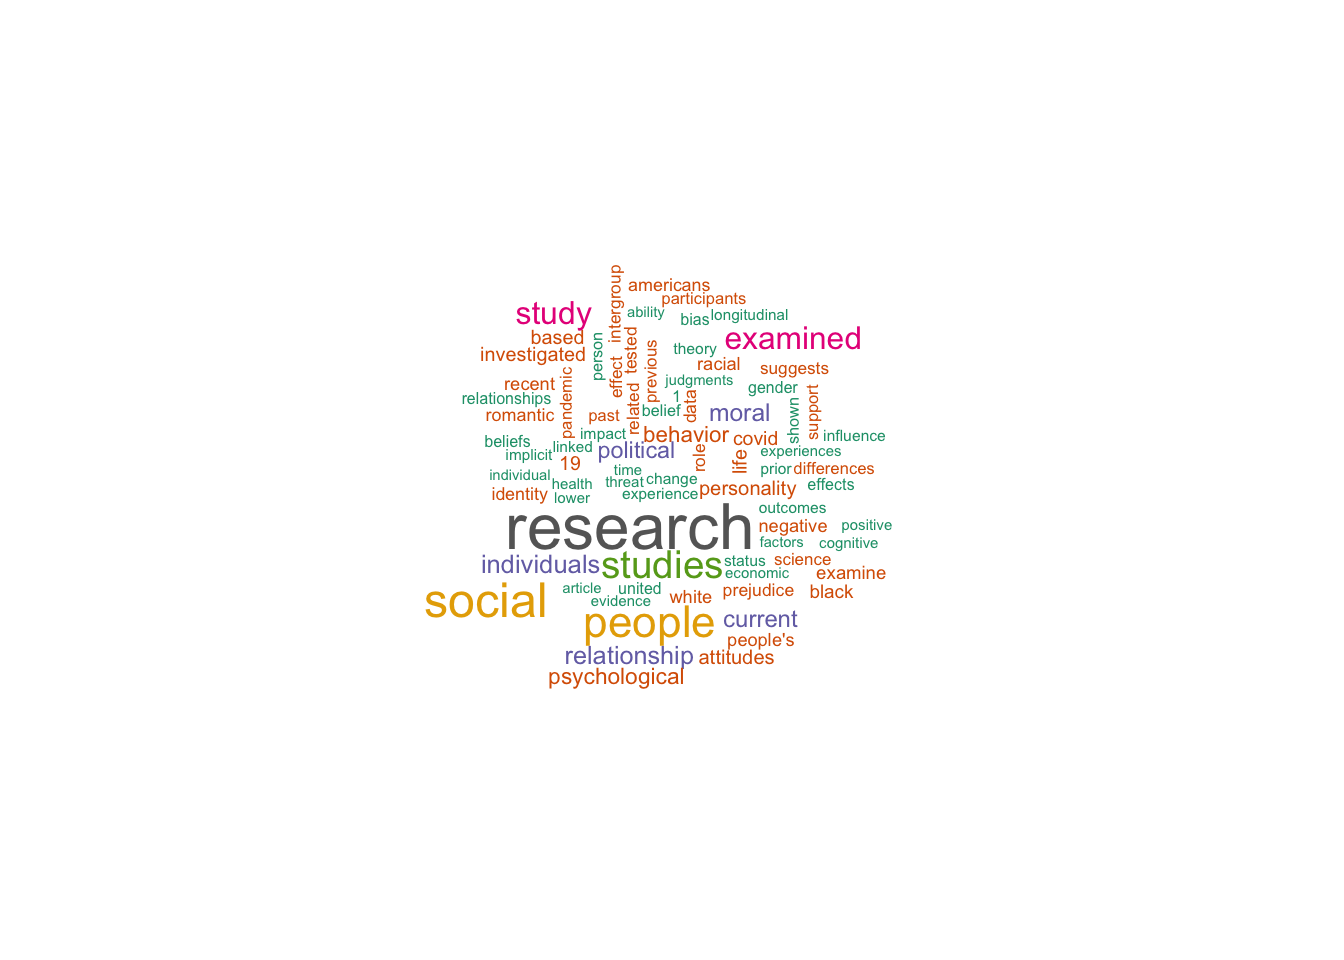
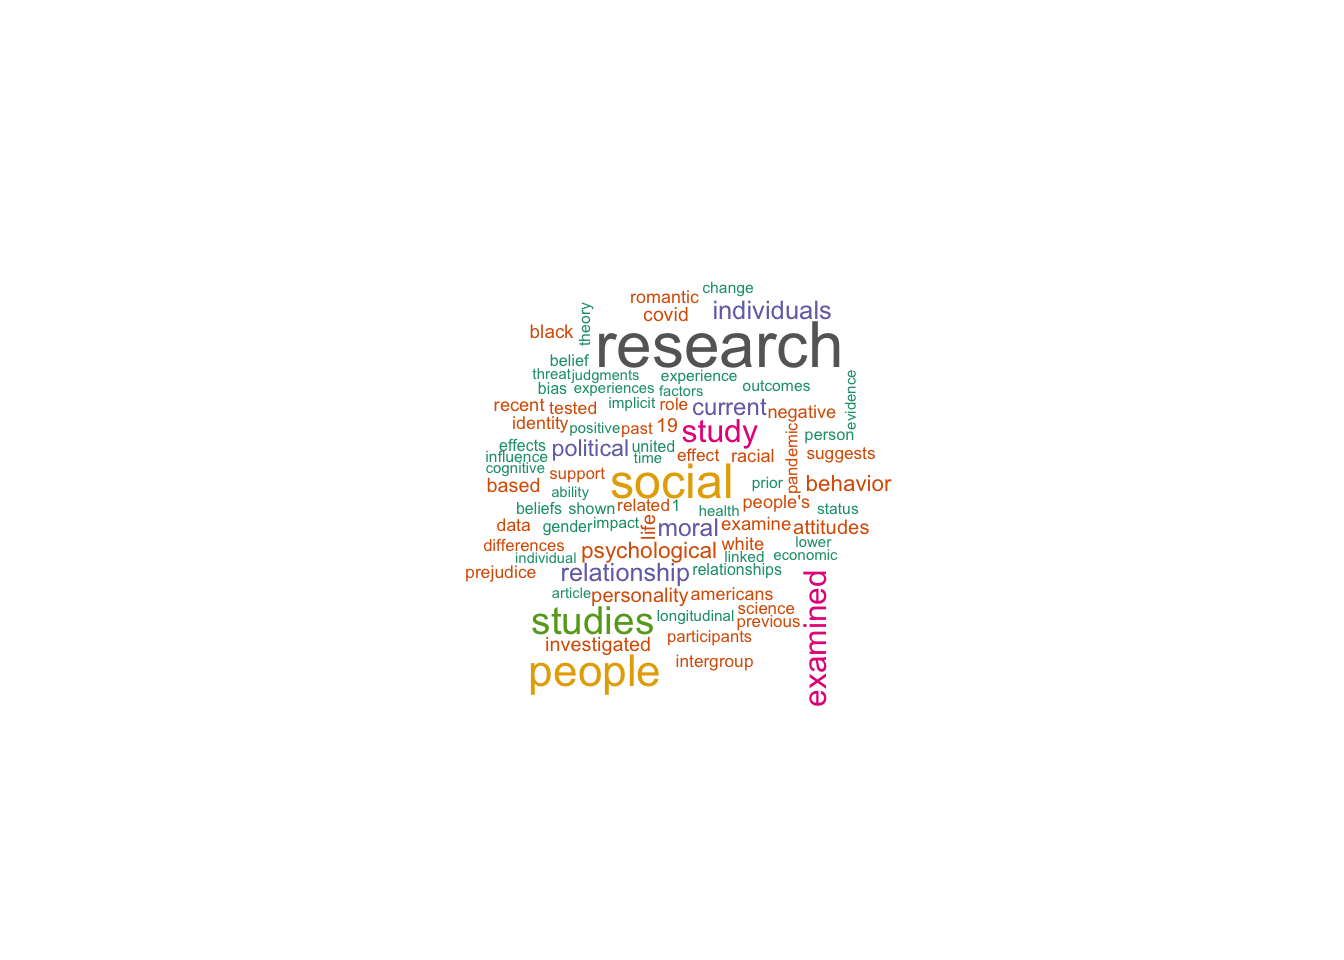
reran build

Changed region(s): [[0.3125, 0.2812, 0.6562, 0.75]]

diff --git a/docs/about.html b/docs/about.html
@@ -356,11 +356,8 @@ on Mental Health</a></td>
 </tr>
 <tr class="even">
 <td>10</td>
-<td><a href="p10.html">Portfolio 10</a></td>
-</tr>
-<tr class="odd">
-<td>11</td>
-<td><a href="p11.html">Portfolio 11</a></td>
+<td><a href="p10.html">Simulation for the Effects of Alcohol on Mental
+Health (RDD)</a></td>
 </tr>
 </tbody>
 </table>